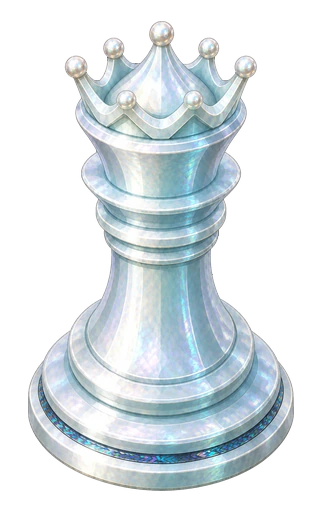
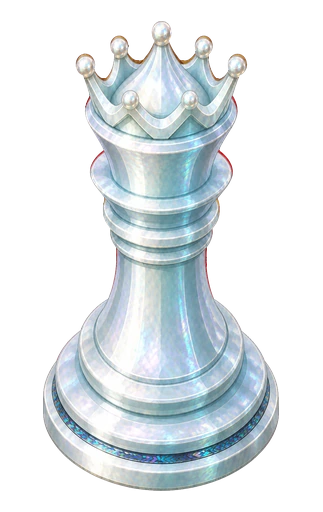
feat: the queens are redrawn, and the geometry follows them
Ports the mobile change: all eight queens redrawn to the family's camera and
a slimmer silhouette, standing a touch taller than the king; the sizing
table follows their narrower content box; and the rule that no figure may
reach its neighbour now measures the figure rather than the sprite box
around it, which is as wide as the canvas and says nothing.

The shadow is the figure's own width too, a third again for the spread — a
fixed share of the square gave the king one wider than himself and the queen
one that ended inside her pedestal.

Changed region(s): [[0.0619, 0.0312, 0.9288, 0.9688], [0.4334, 0.3125, 0.4644, 0.3438]]

diff --git a/src/game/pieceMetrics.ts b/src/game/pieceMetrics.ts
@@ -36,14 +36,22 @@ const canvas: Record<PieceType, { width: number; height: number }> = {
   pawn: { width: 330, height: 512 },
 };
 
-/** Where the figure actually is inside that canvas, as fractions of it. */
-const content: Record<PieceType, { top: number; bottom: number }> = {
-  rook: { top: 0.013, bottom: 0.995 },
-  bishop: { top: 0.008, bottom: 0.995 },
-  knight: { top: 0.011, bottom: 0.995 },
-  king: { top: 0.005, bottom: 0.996 },
-  queen: { top: 0.040, bottom: 0.961 },
-  pawn: { top: 0.040, bottom: 0.963 },
+/**
+ * Where the figure actually is inside that canvas, as fractions of it. The
+ * canvases carry different amounts of air at the sides — the queen's most of
+ * all, and more since she was redrawn slimmer — so the sprite's own width
+ * says little about how wide the figure standing on the square is.
+ */
+const content: Record<
+  PieceType,
+  { top: number; bottom: number; left: number; right: number }
+> = {
+  rook: { top: 0.013, bottom: 0.995, left: 0.011, right: 0.988 },
+  bishop: { top: 0.008, bottom: 0.995, left: 0.015, right: 0.984 },
+  knight: { top: 0.011, bottom: 0.995, left: 0.012, right: 0.987 },
+  king: { top: 0.005, bottom: 0.996, left: 0.031, right: 0.966 },
+  queen: { top: 0.040, bottom: 0.960, left: 0.130, right: 0.866 },
+  pawn: { top: 0.040, bottom: 0.963, left: 0.056, right: 0.942 },
 };
 
 /**
@@ -56,7 +64,10 @@ const figureRatio: Record<PieceType, number> = {
   bishop: 0.951,
   knight: 0.884,
   king: 1,
-  queen: 0.985,
+  // The queen is deliberately a touch taller than the king: her slimmer
+  // silhouette and crown need that presence to read as the board's most
+  // powerful figure rather than as a shortened bishop.
+  queen: 1.08,
   pawn: 0.786,
 };
 
@@ -105,6 +116,22 @@ export function pieceFigureHeight(
   return (
     (figureRatio[type] * TALLEST_FIGURE_IN_CELLS * cellHeight * depth) / NEAREST_DEPTH
   );
+}
+
+/**
+ * How wide the figure itself is — the number the "never reaches its
+ * neighbour" rule is actually about. The sprite box around it is wider, by
+ * however much air its canvas carries.
+ */
+export function pieceFigureWidth(
+  type: PieceType,
+  cellHeight: number,
+  depth = 1,
+): number {
+  const box = content[type];
+  const width = (box.right - box.left) * canvas[type].width;
+  const height = (box.bottom - box.top) * canvas[type].height;
+  return (pieceFigureHeight(type, cellHeight, depth) * width) / height;
 }
 
 export function pieceDrawBox(

diff --git a/src/components/board/Board.tsx b/src/components/board/Board.tsx
@@ -2,7 +2,11 @@ import { useMemo, type PointerEvent, type ReactElement, type RefObject } from 'r
 import type { DozorEngine, DozorSnapshot } from '../../game/dozorEngine';
 import { cellKey, type Beam, type Cell, type Piece } from '../../game/models';
 import { pieceSkins, type PieceType } from '../../game/pieceTypes';
-import { FOOT_DROP_IN_CELLS, pieceDrawBox } from '../../game/pieceMetrics';
+import {
+  FOOT_DROP_IN_CELLS,
+  pieceDrawBox,
+  pieceFigureWidth,
+} from '../../game/pieceMetrics';
 import { useCosmeticSkin } from '../../game/cosmeticSkinContext';
 import { coinAsset, uprightRotationOf } from '../../game/cosmeticSkins';
 import { BoardPerspective, BOARD_LEFT, BOARD_TOP } from './boardPerspective';
@@ -267,6 +271,12 @@ function pieceScreenRect(piece: Cell, type: PieceType, cellPx: number) {
     // everything else here.
     footInset: art.footInset,
     cellHeight: cellHeight * scale,
+    // The shadow is cast by the piece's base, so it is the figure's own
+    // width that decides how big it is — a fixed share of the square gave
+    // the king a shadow wider than he is and the queen one that ended well
+    // inside her pedestal. A third again for the spread, and because the
+    // radial gradient fades to nothing well before its own edge.
+    shadowWidth: pieceFigureWidth(type, cellHeight, scale) * 1.34,
     scale,
   };
 }
@@ -333,11 +343,11 @@ function PieceOnBoard({
         <div
           style={{
             position: 'absolute',
-            bottom: rect.footInset - 0.13 * rect.cellHeight,
+            bottom: rect.footInset - rect.shadowWidth * 0.34 * 0.48,
             left: '50%',
             transform: 'translateX(-50%)',
-            width: 0.76 * rect.cellHeight,
-            height: 0.27 * rect.cellHeight,
+            width: rect.shadowWidth,
+            height: rect.shadowWidth * 0.34,
             borderRadius: '50%',
             background: 'radial-gradient(circle, rgba(0,0,0,0.53) 0%, transparent 100%)',
           }}

diff --git a/src/tests/pieceMetrics.test.ts b/src/tests/pieceMetrics.test.ts
@@ -9,8 +9,8 @@ import {
   NEAREST_DEPTH,
   TALLEST_FIGURE_IN_CELLS,
   cellHeightForTile,
-  pieceDrawBox,
   pieceFigureHeight,
+  pieceFigureWidth,
 } from '../game/pieceMetrics';
 import { ALL_PIECE_TYPES } from '../game/pieceTypes';
 
@@ -22,7 +22,7 @@ describe('figure geometry', () => {
     // wider than one, which is when it starts covering its neighbours.
     const cellWidth = 298 / 6;
     for (const type of ALL_PIECE_TYPES) {
-      expect(pieceDrawBox(type, CELL, NEAREST_DEPTH).width, type).toBeLessThan(
+      expect(pieceFigureWidth(type, CELL, NEAREST_DEPTH), type).toBeLessThan(
         cellWidth,
       );
     }
@@ -40,7 +40,7 @@ describe('figure geometry', () => {
     const smaller = 307 / 7;
     for (const type of ALL_PIECE_TYPES) {
       expect(
-        pieceDrawBox(type, smaller, NEAREST_DEPTH).width,
+        pieceFigureWidth(type, smaller, NEAREST_DEPTH),
         type,
       ).toBeLessThan(298 / 7);
       expect(
